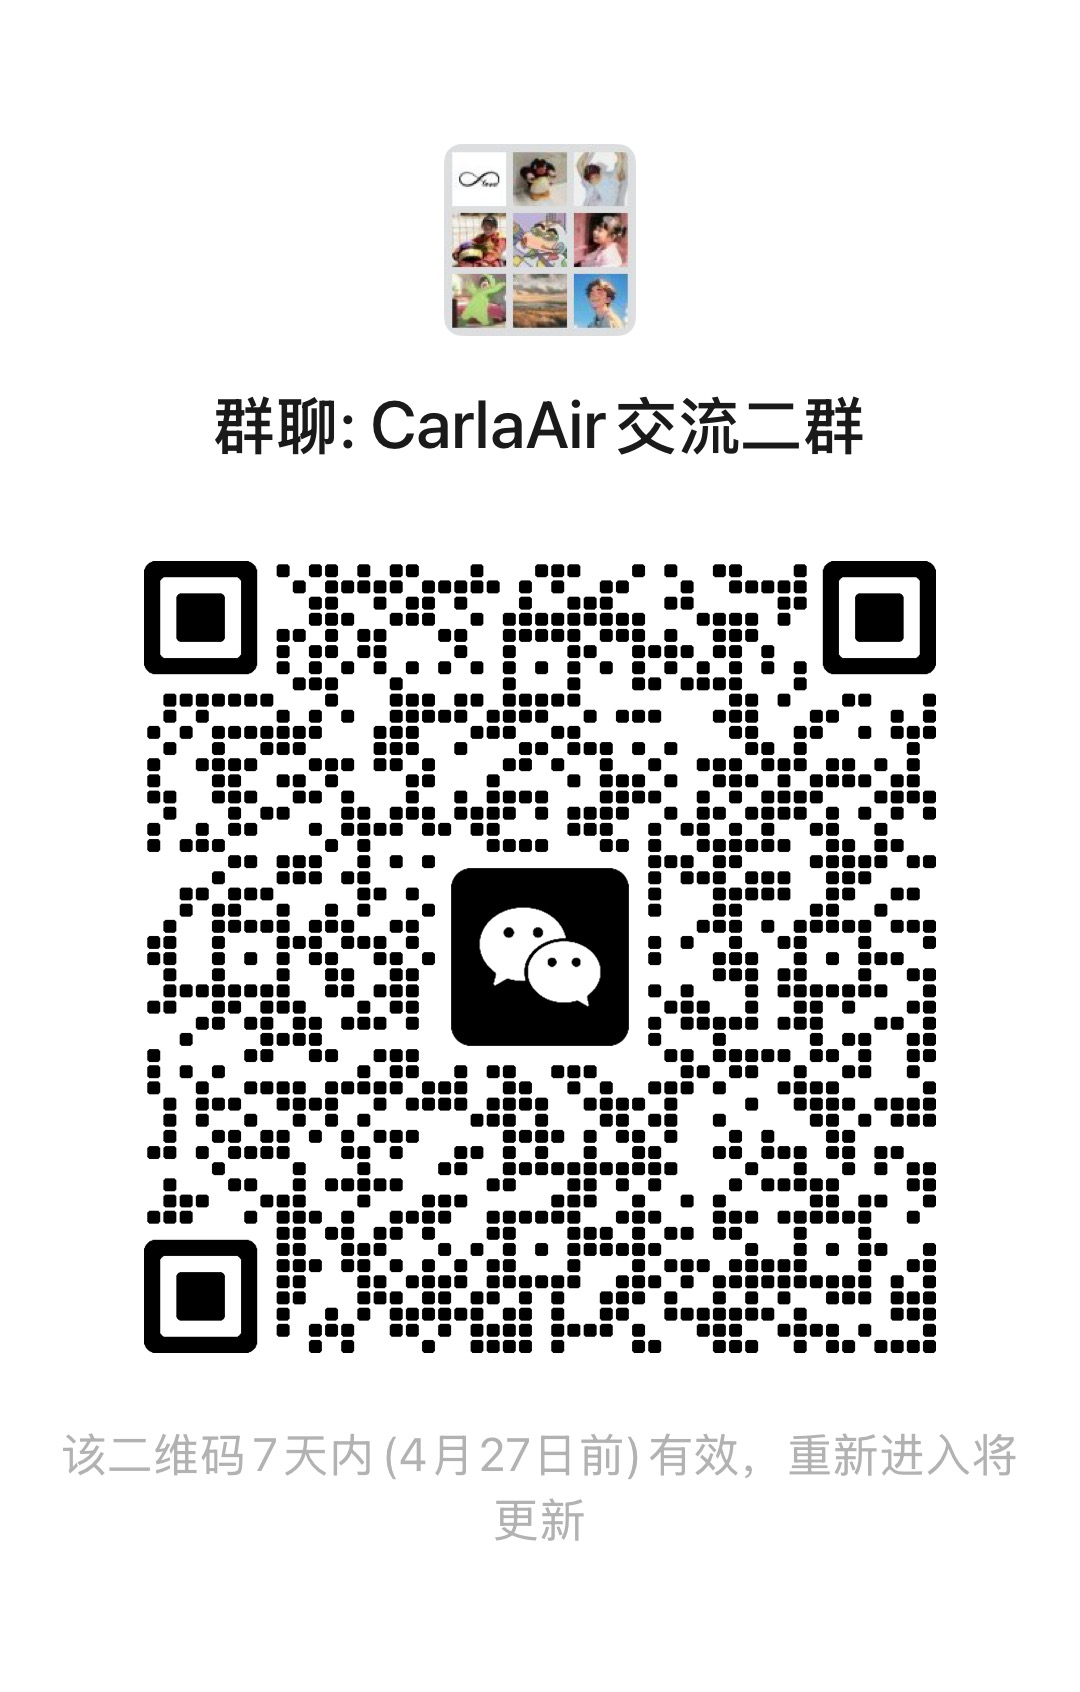
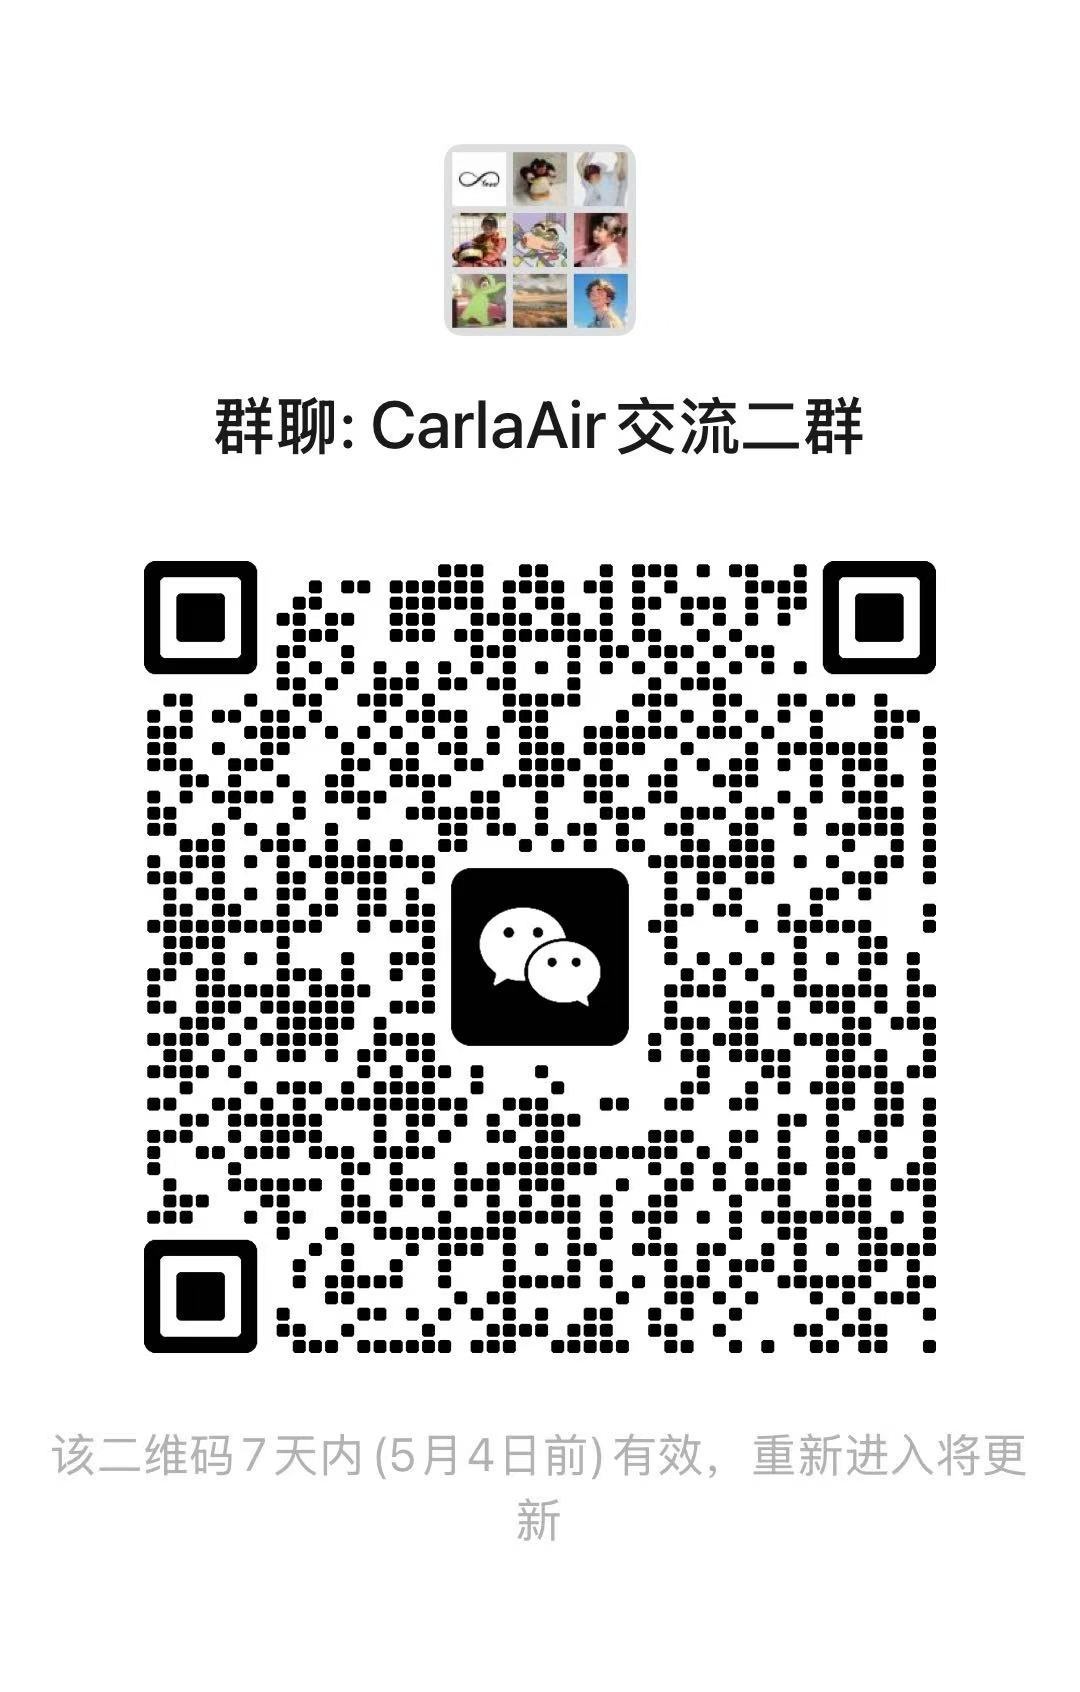
docs: update WeChat QR code and refine build documentation

Changed region(s): [[0.1222, 0.3073, 0.8861, 0.7991], [0.1222, 0.8298, 0.9472, 0.922], [0.0611, 0.8298, 0.0917, 0.8913]]

diff --git a/CarlaAir_Release/source/BUILD_GUIDE.md b/CarlaAir_Release/source/BUILD_GUIDE.md
@@ -1,13 +1,14 @@
 # CarlaAir 从源码编译指南
 
+> **注意**：对于绝大多数学术研究用户，我们强烈建议直接下载**预编译的二进制发行版**（见主页 README）。源码编译过程极为复杂，且严重依赖特定的系统环境和硬件配置，主要面向需要深度定制底层引擎架构的资深开发者。
+
 ## 前提条件
 
 ### 系统要求
-- **操作系统**: Ubuntu 18.04 / 20.04 / 22.04 (推荐 22.04)
-- **GPU**: NVIDIA GPU，显存 >= 8GB (推荐 12GB+)
+- **操作系统**: Ubuntu 18.04 / 20.04 / 22.04
+- **GPU**: NVIDIA GPU，显存 >= 8GB
 - **内存**: >= 32GB RAM
 - **磁盘**: >= 100GB 可用空间
-- **显示**: 需要 X11 显示服务 (或 VNC/Xvfb)
 
 ### 软件依赖
 ```bash
@@ -23,125 +24,74 @@ conda activate simworld
 pip install carla==0.9.16 airsim numpy opencv-python pygame
 ```
 
-## 源码位置
+## 源码获取
 
-| 组件 | 路径 |
-|------|------|
-| UE4 4.26 (CARLA fork) | `$UE4_ROOT` (用户自行设置) |
-| CARLA 源码 | `$CARLA_SOURCE` (本仓库根目录) |
-| AirSim 插件 | `Unreal/CarlaUE4/Plugins/AirSim/` |
-| CarlaAir 核心文件 | `Plugins/AirSim/Source/SimWorldGameMode.h/.cpp` |
+CarlaAir 的构建依赖于高度定制化的 Unreal Engine 4.26 分支和特定的 CARLA 版本。
+
+1. 获取 Epic Games 账号并关联 GitHub，以获得 UE4 源码访问权限。
+2. 获取 CARLA 0.9.16 (ue4-dev 分支) 的源码。
+3. 将本仓库中的 CarlaAir 核心代码（位于 `core_source`）合并到 CARLA 源码的对应位置。
+
+> **环境配置提示**：您需要自行配置 `$UE4_ROOT` 和 `$CARLA_ROOT` 环境变量，确保它们指向正确的源码目录。
 
 ## 编译步骤
 
-### 1. 设置环境变量
+### 1. 编译引擎与基础模块
+
+在开始编译 CarlaAir 之前，请确保您已经成功编译了 Unreal Engine 4.26 和基础的 CARLA 模块。
 
 ```bash
-export UE4_ROOT=<path_to_your_ue4_4.26>   # 例如 /opt/carla_ue4
-cd <path_to_carla_source>                   # 本仓库根目录
+export UE4_ROOT=<your_ue4_root>
+cd <your_carla_root>
+
+# 编译基础引擎（此步骤可能需要数小时）
+make UnrealEngine
 ```
 
-### 2. 编译 AirSim 模块（~100 秒）
+### 2. 编译 AirSim 插件
+
+CarlaAir 深度集成了 AirSim。您需要首先编译 AirSim 模块：
 
 ```bash
-# 仅编译 AirSim 插件（快速迭代时使用）
+# 编译 AirSim 插件
 make CarlaUE4Editor ARGS="-module=AirSim"
-# 或直接使用 Build.sh
-./Util/BuildTools/BuildCarlaUE4.sh --build
 ```
 
-### 3. 编译 CARLA 模块（~290 秒）
+### 3. 编译 CarlaAir 核心
+
+在 AirSim 模块编译完成后，编译融合了空地协同逻辑的 CARLA 模块：
 
 ```bash
 # 编译 CARLA 插件
 make CarlaUE4Editor ARGS="-module=Carla"
 ```
 
-### 4. 在 Editor 模式中运行（开发调试）
+### 4. Editor 模式调试
+
+编译完成后，您可以在 UE4 Editor 中启动 CarlaAir 进行调试：
 
 ```bash
-# 使用一键启动脚本
-./carlaAir.sh                    # 默认 Town10HD, 1280x720
-./carlaAir.sh Town03             # 指定地图
-./carlaAir.sh Town10HD 1920 1080 # 指定分辨率
+make launch
 ```
 
-### 5. 打包 Shipping 构建（发布用）
+### 5. 打包 Shipping 构建
+
+当您完成所有定制开发后，可以打包为独立的二进制发行版：
 
 ```bash
-# 完整打包流程（编译 ~805s + Cook ~2h）
+# 完整打包流程（编译 + Cook，通常需要 3-4 小时）
 ./Util/BuildTools/Package.sh --config=Shipping --no-zip
-
-# 输出目录
-ls Dist/CARLA_Shipping_*/LinuxNoEditor/
 ```
 
-**注意**: Package.sh 在最后 rsync PythonAPI wheel 时可能失败（因为 `.whl` 文件未构建），但这不影响主要构建。手动复制 PythonAPI 文件到输出目录即可。
-
-### 6. 运行 Shipping 构建
-
-```bash
-cd Dist/CARLA_Shipping_*/LinuxNoEditor/
-./CarlaUE4.sh /Game/Carla/Maps/Town10HD -nosound -carla-rpc-port=2000
-```
-
-## 关键配置文件
-
-### DefaultGame.ini
-
-位于 `Unreal/CarlaUE4/Config/DefaultGame.ini`。打包时需要确保以下条目存在：
-
-```ini
-# AirSim 资源目录（必须）
-+DirectoriesToAlwaysCook=(Path="/AirSim/Blueprints")
-+DirectoriesToAlwaysCook=(Path="/AirSim/HUDAssets")
-+DirectoriesToAlwaysCook=(Path="/AirSim/Models")
-+DirectoriesToAlwaysCook=(Path="/AirSim/Weather")
-+DirectoriesToAlwaysCook=(Path="/AirSim/StarterContent")
-+DirectoriesToAlwaysCook=(Path="/AirSim/VehicleAdv")
-
-# AirSim 地图
-+MapsToCook=(FilePath="/AirSim/AirSimAssets")
-```
-
-### settings.json
-
-位于 `~/Documents/AirSim/settings.json`，控制 AirSim 行为：
-
-```json
-{
-    "SettingsVersion": 1.2,
-    "SimMode": "Multirotor",
-    "Vehicles": {
-        "SimpleFlight": {
-            "VehicleType": "SimpleFlight",
-            "AutoCreate": true
-        }
-    }
-}
-```
-
-## 编译时间参考
-
-| 步骤 | 时间 | 说明 |
-|------|------|------|
-| AirSim 模块编译 | ~100s | 仅 AirSim 相关 C++ |
-| CARLA 模块编译 | ~290s | CARLA 插件 C++ |
-| Shipping 编译 | ~805s | 656 个编译单元 |
-| Cook (资源烘焙) | ~2h | 13459 个包 |
-| TaggedMaterials | ~977s | 实例分割材质 |
-| **总计 (完整打包)** | **~3.5h** | 首次；增量编译更快 |
+构建产物将输出到 `Dist/CARLA_Shipping_*/LinuxNoEditor/` 目录下。
 
 ## 常见问题
 
-### Q: 首次启动非常慢（~10分钟）
-**A**: 首次运行时 UE4 需要编译 DDC (Derived Data Cache) 和着色器。后续启动约 1 分钟。
+### Q: 编译时提示找不到 `features.h` 或其他头文件？
+**A**: 这是由于系统头文件路径未正确映射到 UE4 的构建系统中。请检查您的 clang 工具链配置，或尝试使用 `Build.sh` 脚本替代 `make` 命令。
 
-### Q: Package.sh 最后报错
-**A**: 通常是 PythonAPI wheel rsync 失败（`set -e` 导致脚本中断）。主要的可执行文件和资源已经正确打包，手动复制 PythonAPI 即可。
+### Q: 启动 Editor 时发生崩溃？
+**A**: 请确保您的显卡驱动支持 Vulkan，并且已正确安装 `vulkan-utils`。此外，首次启动时需要编译大量着色器，请耐心等待。
 
-### Q: 打包后的构建缺少地图
-**A**: 检查 `DefaultGame.ini` 中的 `MapsToCook` 条目。确保包含所有需要的地图。
-
-### Q: AirSim API 无法连接
-**A**: 检查 `~/Documents/AirSim/settings.json` 是否存在且格式正确。Editor 模式下需要等待 AirSim 端口 41451 就绪。
+### Q: 打包后的版本中没有无人机？
+**A**: 请检查 `Unreal/CarlaUE4/Config/DefaultGame.ini`，确保 AirSim 的蓝图和资源目录已正确添加到 `DirectoriesToAlwaysCook` 列表中。

diff --git a/README_CN.md b/README_CN.md
@@ -42,7 +42,7 @@
[1 lines of base64/hex data omitted]
   <a href="https://huggingface.co/tianlezeng/CarlaAIr-v0.1.7"><img src="https://img.shields.io/badge/Ubuntu-HuggingFace-FFD21E?logo=huggingface&logoColor=black" alt="Ubuntu — Hugging Face"/></a>
   <a href="https://pan.baidu.com/s/1bToSuL2U5PeA_8CidpsIeg?pwd=cswm"><img src="https://img.shields.io/badge/Windows-百度网盘-0078D6?logo=windows&logoColor=white" alt="Windows — 百度网盘"/></a>
-  <a href="docs/images/wxg.jpg?v=20260419"><img src="https://img.shields.io/badge/微信-交流群-07C160?logo=wechat&logoColor=white" alt="WeChat Group"/></a>
+  <a href="docs/images/wxg.jpg?v=20260427"><img src="https://img.shields.io/badge/微信-交流群-07C160?logo=wechat&logoColor=white" alt="WeChat Group"/></a>
 </p>
 
 ## 📌 目录

diff --git a/README.md b/README.md
@@ -42,7 +42,7 @@
[1 lines of base64/hex data omitted]
   <a href="https://huggingface.co/tianlezeng/CarlaAIr-v0.1.7"><img src="https://img.shields.io/badge/Ubuntu-HuggingFace-FFD21E?logo=huggingface&logoColor=black" alt="Ubuntu — Hugging Face"/></a>
   <a href="https://pan.baidu.com/s/1bToSuL2U5PeA_8CidpsIeg?pwd=cswm"><img src="https://img.shields.io/badge/Windows-Baidu%20Pan-0078D6?logo=windows&logoColor=white" alt="Windows — Baidu Pan"/></a>
-  <a href="docs/images/wxg.jpg?v=20260419"><img src="https://img.shields.io/badge/WeChat-Group-07C160?logo=wechat&logoColor=white" alt="WeChat Group"/></a>
+  <a href="docs/images/wxg.jpg?v=20260427"><img src="https://img.shields.io/badge/WeChat-Group-07C160?logo=wechat&logoColor=white" alt="WeChat Group"/></a>
 </p>
 
 ## 📌 Table of Contents
